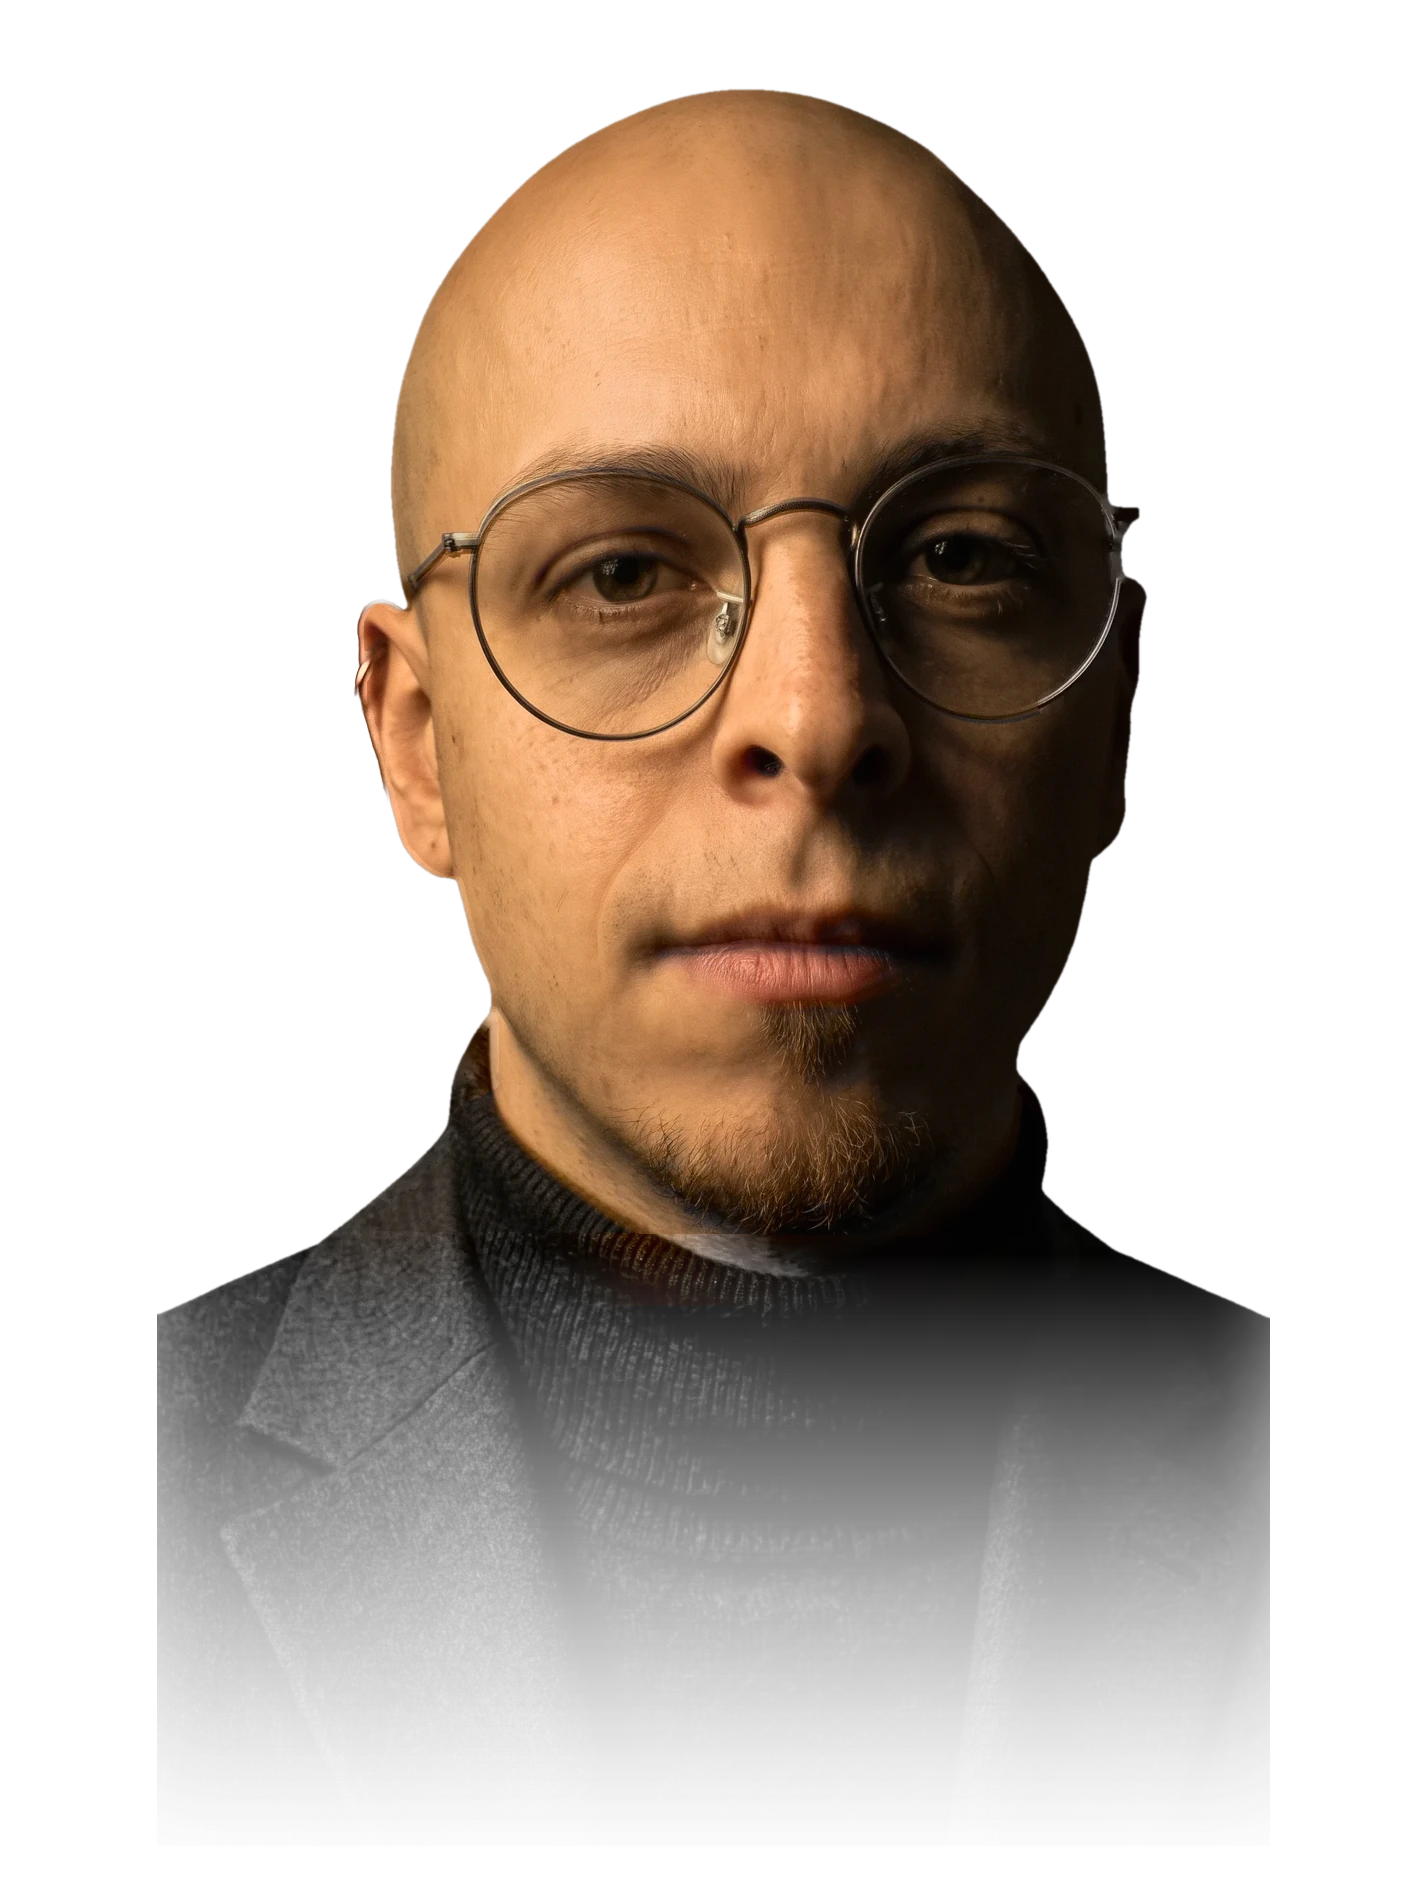
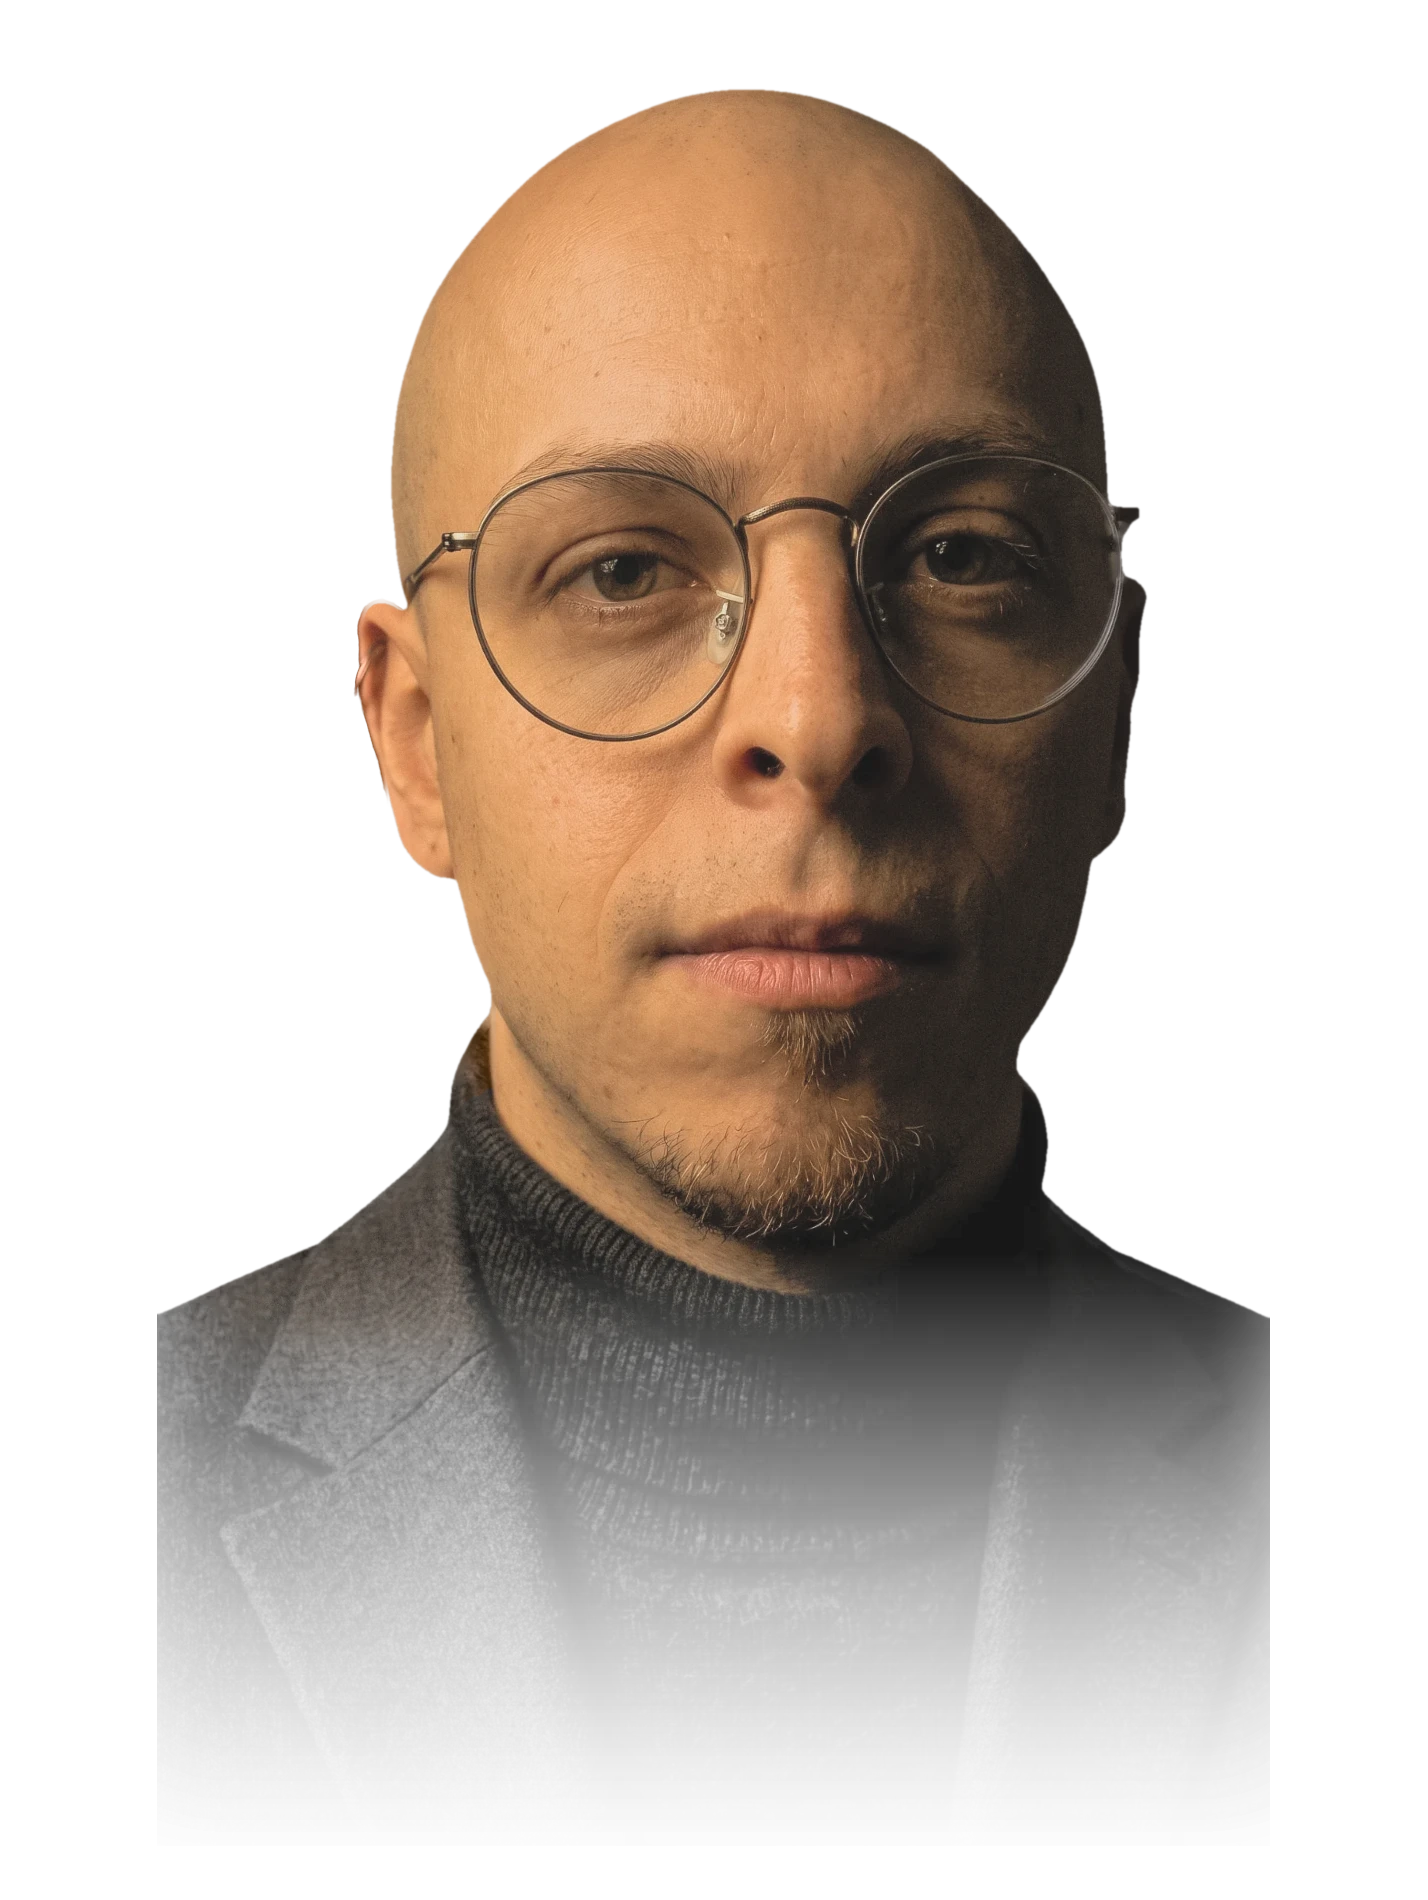
Ritratto a colori più chiaro e ritocco sotto il mento (#722)
* Sfondo Abyss Black, hero con solo il nome, selettore lingue a toggle

Claude-Session: https://claude.ai/code/session_013V1PHrfFfWZxJKR6k5JqCP

* Risposte rapide diventa Q&A

Claude-Session: https://claude.ai/code/session_013V1PHrfFfWZxJKR6k5JqCP

* Tratto a mano sotto i titoli di sezione della home

Claude-Session: https://claude.ai/code/session_013V1PHrfFfWZxJKR6k5JqCP

* Titoli di sezione della home in Destiny Signature, tolto il tratto

Claude-Session: https://claude.ai/code/session_013V1PHrfFfWZxJKR6k5JqCP

* Icona app e favicon dal nuovo ritratto stilizzato

Claude-Session: https://claude.ai/code/session_013V1PHrfFfWZxJKR6k5JqCP

* Icona app più centrata sul volto

Claude-Session: https://claude.ai/code/session_013V1PHrfFfWZxJKR6k5JqCP

* Ripristina versione del ritratto in home

Claude-Session: https://claude.ai/code/session_013V1PHrfFfWZxJKR6k5JqCP

* Ripristina sfondo nero e saluto Ciao, sono in hero

Claude-Session: https://claude.ai/code/session_013V1PHrfFfWZxJKR6k5JqCP

* Titolo Q&A in Destiny Signature

Claude-Session: https://claude.ai/code/session_013V1PHrfFfWZxJKR6k5JqCP

* Titoli in Bodoni Moda, testi in Montserrat, firma e saluto invariati

Claude-Session: https://claude.ai/code/session_013V1PHrfFfWZxJKR6k5JqCP

* Icona app e favicon con il monogramma NF

Claude-Session: https://claude.ai/code/session_013V1PHrfFfWZxJKR6k5JqCP

* Selettore lingue com'era prima del toggle

Claude-Session: https://claude.ai/code/session_013V1PHrfFfWZxJKR6k5JqCP
[…]

Changed region(s): [[0.1232, 0.0311, 0.8319, 0.7453]]

diff --git a/index.html b/index.html
@@ -86,7 +86,7 @@
 
     </div>
     <div class="hero-photo-frame">
-      <picture><source media="(prefers-color-scheme: light)" srcset="photo-color.webp?v=2"><img class="hero-portrait" id="avatarPhoto" src="photo.webp?v=43" alt="Nicolò Forcolin" width="1428" height="1900" fetchpriority="high"></picture>
+      <picture><source media="(prefers-color-scheme: light)" srcset="photo-color.webp?v=4"><img class="hero-portrait" id="avatarPhoto" src="photo.webp?v=43" alt="Nicolò Forcolin" width="1428" height="1900" fetchpriority="high"></picture>
     </div>
   </div>
 </section>
